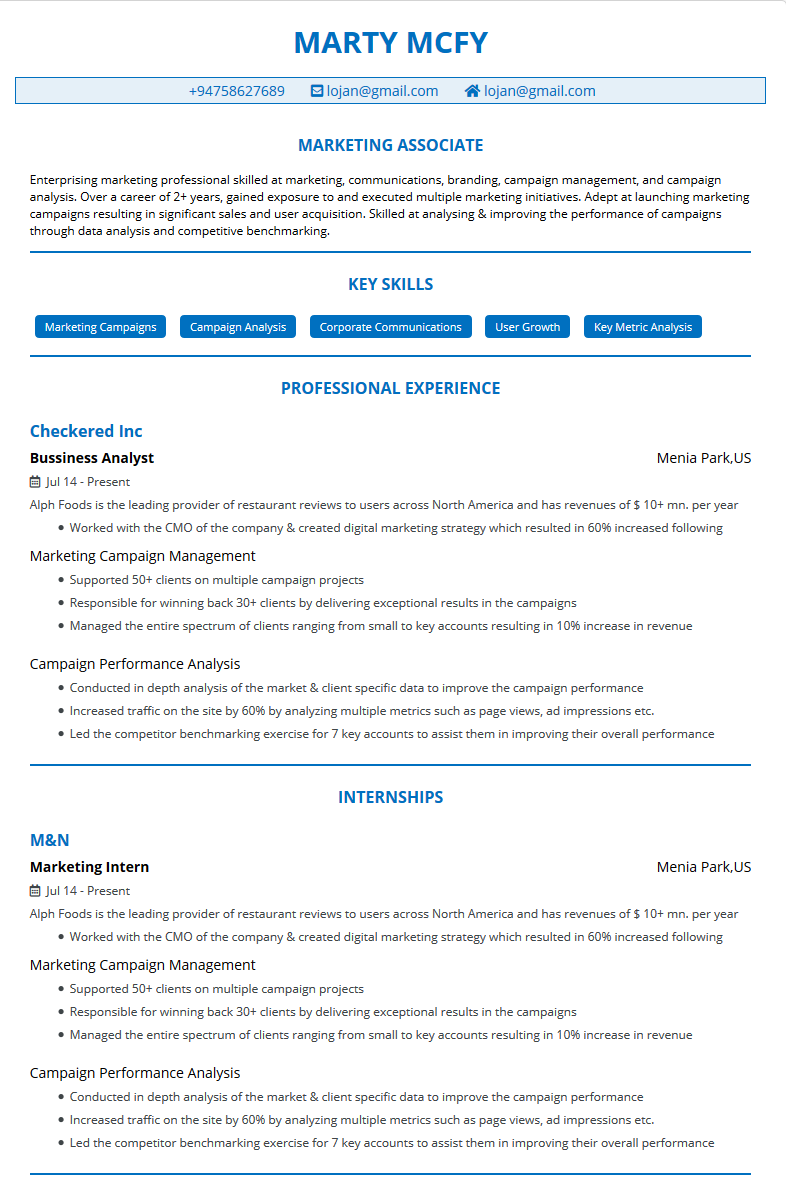
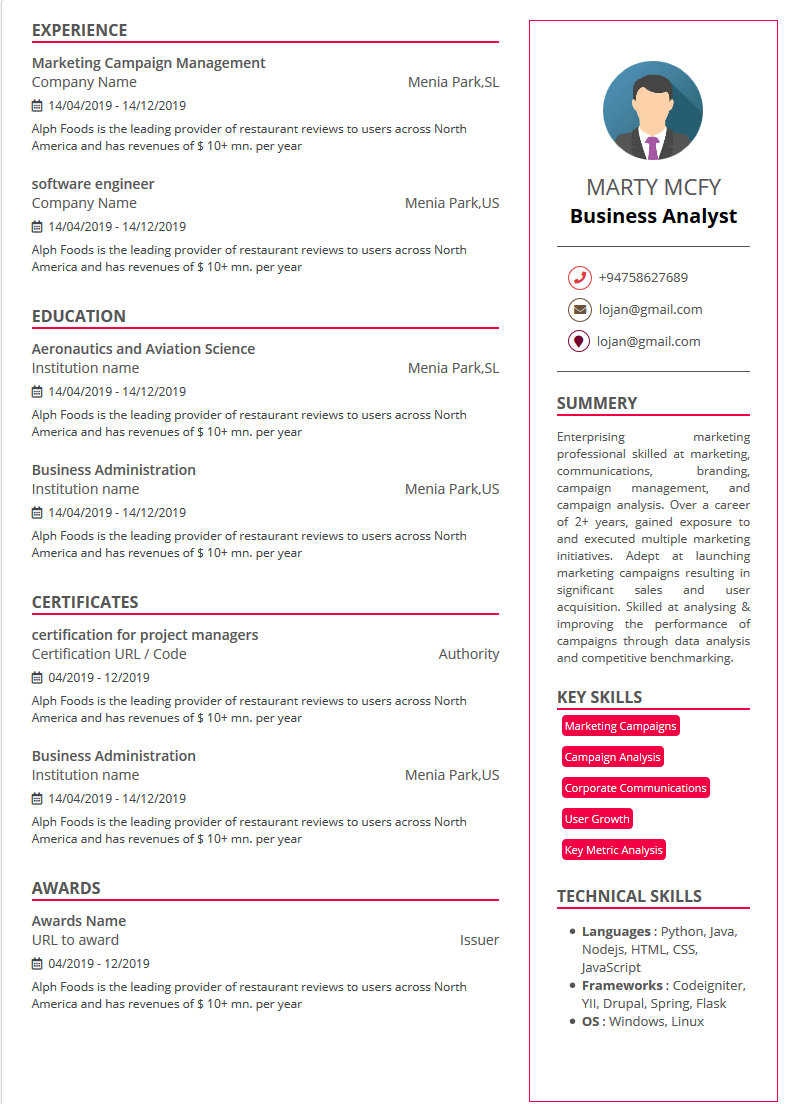
tm bind

Changed region(s): [[0.0, 0.0, 0.9771, 1.0]]

diff --git a/src/app/component/preview/preview-routing.module.ts b/src/app/component/preview/preview-routing.module.ts
@@ -6,10 +6,10 @@ import { MoonComponent } from "./templates/moon/moon.component";
 import { PreviewComponent } from "./preview.component";
 import { NewtonComponent } from './templates/newton/newton.component';
 import { HawkingComponent } from './templates/hawking/hawking.component';
-import { CaliforniSmallComponent } from './templates/californi-small/californi-small.component';
-import { ModernComponent } from './templates/modern/modern.component';
+
+
 import { ParisComponent } from './templates/paris/paris.component';
-import { ProfessionalComponent } from './templates/professional/professional.component';
+
 import { AmsterdamComponent } from './templates/amsterdam/amsterdam.component';
 import { RoyalBlueComponent } from './templates/royal-blue/royal-blue.component';
 import { TrendyDesignComponent } from './templates/trendy-design/trendy-design.component';
@@ -19,6 +19,9 @@ import { CharlesDarwinComponent } from './templates/charles-darwin/charles-darwi
 import { StephenHawkingComponent } from './templates/stephen-hawking/stephen-hawking.component';
 import { NikolaTeslaComponent } from './templates/nikola-tesla/nikola-tesla.component';
 import { ThomasEdisonComponent } from './templates/thomas-edison/thomas-edison.component';
+import { GalileoGalileiComponent } from './templates/galileo-galilei/galileo-galilei.component';
+import { LeonardoDaVinciComponent } from './templates/leonardo-da-vinci/leonardo-da-vinci.component';
+import { AlexanderGrahamBell } from './templates/alexander-graham-bell/alexander-graham-bell.component';
 
 
 const optionsRoute: Routes = [
@@ -53,8 +56,8 @@ const optionsRoute: Routes = [
 
       },
       {
-        path:'californiSmall',
-        component:CaliforniSmallComponent
+        path:'galileo-galilei',
+        component:GalileoGalileiComponent
       },
     
       {
@@ -62,12 +65,12 @@ const optionsRoute: Routes = [
         component:ParisComponent
       },
       {
-        path:'modern',
-        component:ModernComponent
+        path:'leonardo-da-vinci',
+        component:LeonardoDaVinciComponent
       },
       {
-        path:'professional',
-        component:ProfessionalComponent
+        path:'alexander-graham-bell',
+        component:AlexanderGrahamBell
       },
       {
         path:'amsterdam',

diff --git a/src/app/component/preview/preview.module.ts b/src/app/component/preview/preview.module.ts
@@ -12,9 +12,9 @@ import { NewtonComponent } from './templates/newton/newton.component';
 import { HawkingComponent } from './templates/hawking/hawking.component';
 import { EditorService } from './../options/editor.service';
 import { ParisComponent } from './templates/paris/paris.component';
-import { CaliforniSmallComponent } from './templates/californi-small/californi-small.component';
-import { ProfessionalComponent } from './templates/professional/professional.component';
-import { ModernComponent } from './templates/modern/modern.component';
+
+
+
 import { AmsterdamComponent } from './templates/amsterdam/amsterdam.component';
 
 
@@ -26,6 +26,9 @@ import { CharlesDarwinComponent } from './templates/charles-darwin/charles-darwi
 import { StephenHawkingComponent } from './templates/stephen-hawking/stephen-hawking.component';
 import { NikolaTeslaComponent } from './templates/nikola-tesla/nikola-tesla.component';
 import { ThomasEdisonComponent } from './templates/thomas-edison/thomas-edison.component';
+import { GalileoGalileiComponent } from './templates/galileo-galilei/galileo-galilei.component';
+import { LeonardoDaVinciComponent } from './templates/leonardo-da-vinci/leonardo-da-vinci.component';
+import { AlexanderGrahamBell } from './templates/alexander-graham-bell/alexander-graham-bell.component';
 
 @NgModule({
   declarations: [
@@ -36,9 +39,9 @@ import { ThomasEdisonComponent } from './templates/thomas-edison/thomas-edison.c
     NewtonComponent,
     HawkingComponent,
     ParisComponent,
-    CaliforniSmallComponent,
-    ProfessionalComponent,
-    ModernComponent,
+    GalileoGalileiComponent,
+    AlexanderGrahamBell,
+    LeonardoDaVinciComponent,
     AmsterdamComponent,
     IsaacNewtonComponent,
     NikolaTeslaComponent,

diff --git a/src/app/resume.service.ts b/src/app/resume.service.ts
@@ -58,6 +58,58 @@ export class ResumeService {
     {
       "name": "aristotle",
       "id": 6
+    },
+    {
+      "name": "galileo-galilei",
+      "id": 7
+    },
+    {
+      "name": "leonardo-da-vinci",
+      "id": 8
+    },
+    {
+      "name": "nikola-tesla",
+      "id": 9
+    },
+    {
+      "name": "alexander-graham-bell",
+      "id": 10
+    },
+      {
+      "name": "amsterdam",
+      "id": 11
+    },
+    {
+      "name": "isaac-newton",
+      "id": 12
+    },
+    {
+      "name": "thomas-edison",
+      "id": 13
+    },
+    {
+      "name": "stephen-hawking",
+      "id": 14
+    },
+    {
+      "name": "global-citizen-green",
+      "id": 15
+    },
+    {
+      "name": "miani",
+      "id": 16
+    },
+    {
+      "name": "royal-blue",
+      "id": 17
+    },
+    {
+      "name": "trendy-design",
+      "id": 18
+    },
+    {
+      "name": "uniform-brown",
+      "id": 19
     }
 
   ]

diff --git a/src/app/component/preview/templates/galileo-galilei/galileo-galilei.component.ts b/src/app/component/preview/templates/galileo-galilei/galileo-galilei.component.ts
@@ -3,11 +3,11 @@ import { ResumeService } from "../../../../resume.service";
 import { EditorService } from "../../../options/editor.service";
 import * as ClassicEditor from '@ckeditor/ckeditor5-build-classic'
 @Component({
-  selector: 'app-californi-small',
-  templateUrl: './californi-small.component.html',
-  styleUrls: ['./californi-small.component.scss']
+  selector: 'app-galileo-galilei',
+  templateUrl: './galileo-galilei.component.html',
+  styleUrls: ['./galileo-galilei.component.scss']
 })
-export class CaliforniSmallComponent implements OnInit {
+export class GalileoGalileiComponent implements OnInit {
 
 
 

diff --git a/src/app/component/preview/templates/alexander-graham-bell/alexander-graham-bell.component.ts b/src/app/component/preview/templates/alexander-graham-bell/alexander-graham-bell.component.ts
@@ -1,0 +1,15 @@
+import { Component, OnInit } from '@angular/core';
+
+@Component({
+  selector: 'app-alexander-graham-bell',
+  templateUrl: './alexander-graham-bell.component.html',
+  styleUrls: ['./alexander-graham-bell.component.scss']
+})
+export class AlexanderGrahamBell implements OnInit {
+
+  constructor() { }
+
+  ngOnInit() {
+  }
+
+}

diff --git a/src/app/component/preview/templates/leonardo-da-vinci/leonardo-da-vinci.component.ts b/src/app/component/preview/templates/leonardo-da-vinci/leonardo-da-vinci.component.ts
@@ -1,0 +1,15 @@
+import { Component, OnInit } from '@angular/core';
+
+@Component({
+  selector: 'app-leonardo-da-vinci',
+  templateUrl: './leonardo-da-vinci.component.html',
+  styleUrls: ['./leonardo-da-vinci.component.scss']
+})
+export class LeonardoDaVinciComponent implements OnInit {
+
+  constructor() { }
+
+  ngOnInit() {
+  }
+
+}

diff --git a/src/styles.scss b/src/styles.scss
@@ -637,7 +637,9 @@ body {
 }
 
 
-
+.select-template__item {
+ box-shadow: 4px 8px 16px 0 rgba(0,0,0,.2);
+}
 
 
 
